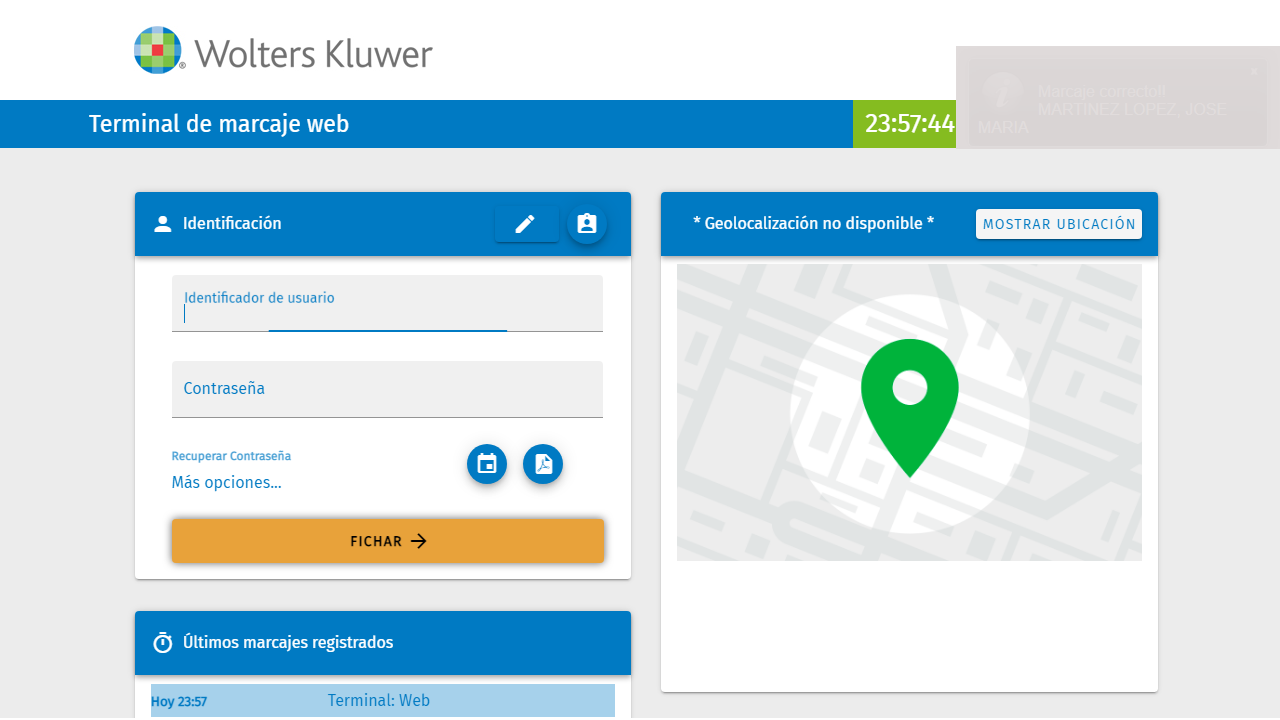
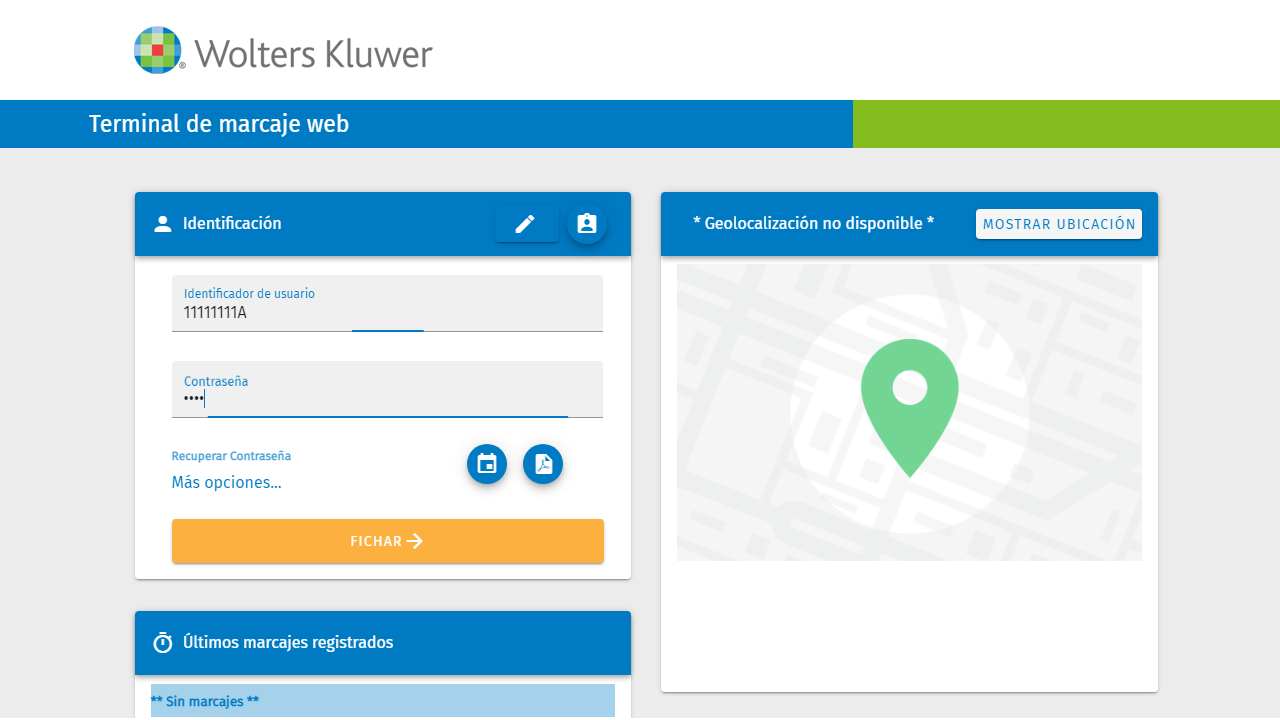
refactor(console) use user data login from user.json file

diff --git a/fichar.js b/fichar.js
@@ -1,5 +1,24 @@
 // script para fichar
 const { chromium } = require("playwright");
+const fs = require("fs");
+const fileUserCredentials = "./user.json";
+const defaultUsername = "11111111A";
+const defaultPassword = "1111";
+let userName = "";
+let userPasword = "";
+
+try {
+  if (fs.existsSync(fileUserCredentials)) {
+    const obj = JSON.parse(fs.readFileSync(fileUserCredentials, "utf8"));
+    userName = obj.username;
+    userPasword = obj.password;
+  } else {
+    userName = defaultUsername;
+    userPasword = defaultPassword;
+  }
+} catch (err) {
+  console.log(err);
+}
 
 (async () => {
   const browser = await chromium.launch({ headless: true });
@@ -11,8 +30,8 @@ const { chromium } = require("playwright");
   const page = await context.newPage();
   await page.goto("https://a3gt.wolterskluwer.es/gt#/clockings/57962");
 
-  await page.type("#username", "47733826V");
-  await page.type("#pwd", "1234");
+  await page.type("#username", userName);
+  await page.type("#pwd", userPasword);
 
   await page.click("#sendClocking");
   await page.waitForSelector("div.notice");

diff --git a/README.md b/README.md
@@ -10,6 +10,13 @@ https://patorjk.com/software/taag/#p=display&f=ANSI%20Shadow&t=FICHAJE
 Requisitos:
 Para que funcionen los scripts .bat, en el package.json deben aparecer dentro de scripts:
     "start": "node fichar.js"
+Hay que crear en la raiz del proyecto un fichero "user.json" que contenga el usuario y el password que va a realizar el login en la pagina del fichaje.
+Crear el fichero user.json con la siguiente estructura:
+    {
+        "username": "11111111A",
+        "password": "1111"
+    }
+Si no se crea el fichero user.json hara login con el usuario y password por defecto indicado en el fichero fichar.js
 
 Para fichar por las mañanas de forma automatica:
 1. Hacer un run de "shell:startup"
